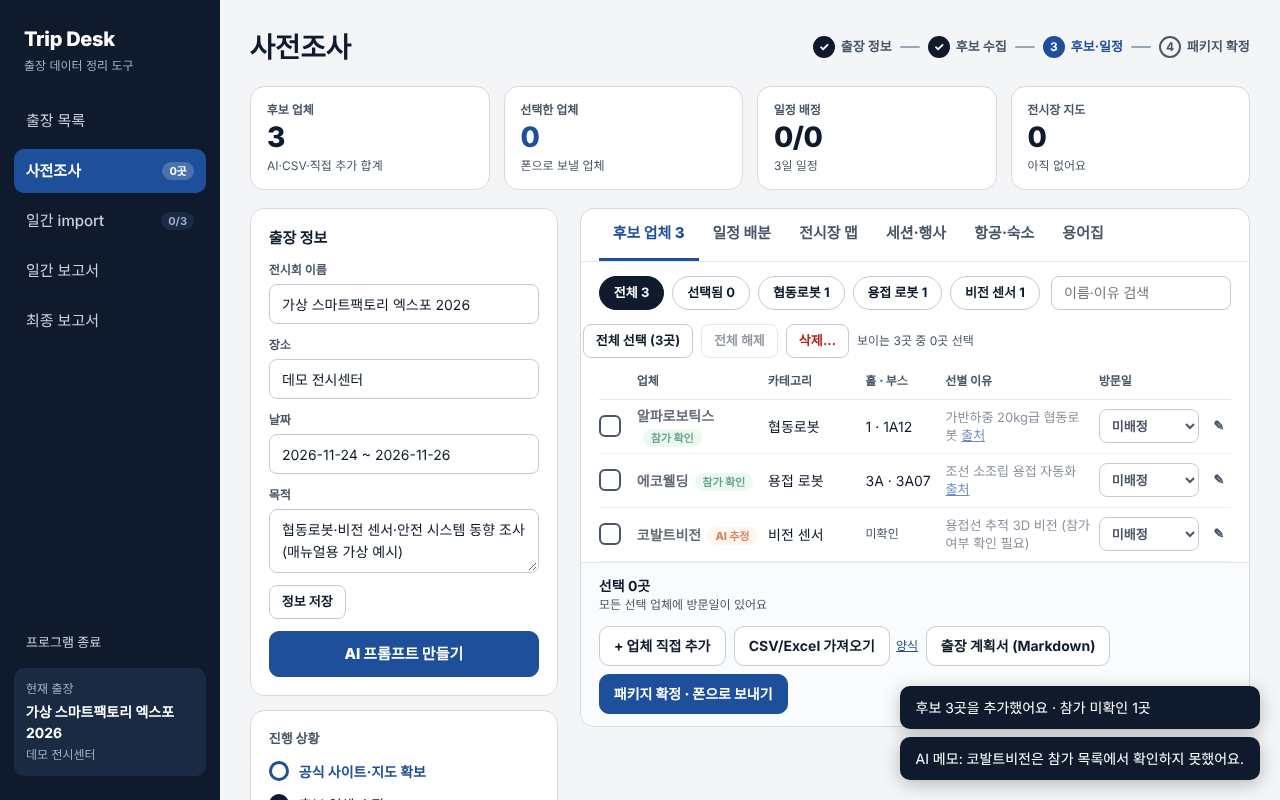
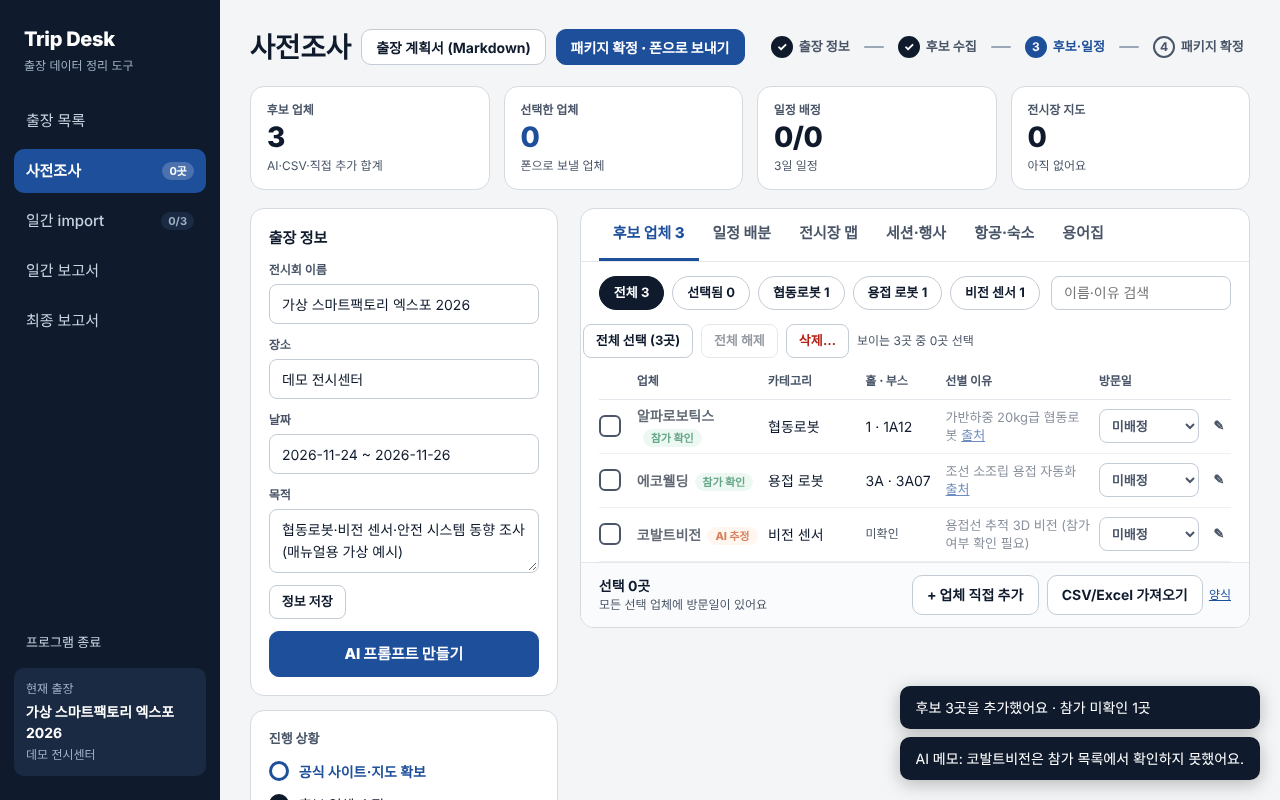
Desk 사전조사: 진행 상황·단계 표시를 눌러 해당 탭으로 이동, 출장 계획서·패키지 확정 버튼을 제목 옆으로 이동
Claude-Session: https://claude.ai/code/session_01QquWuwNK276MS5WpECriYo

Changed region(s): [[0.2812, 0.0312, 0.9688, 0.0938], [0.4688, 0.7812, 0.875, 0.9062], [0.7188, 0.7188, 0.9688, 0.75]]

diff --git a/desk/tripdesk/web/prep.js b/desk/tripdesk/web/prep.js
@@ -39,19 +39,23 @@ function draw() {
   const { trip } = P.v;
   const s = stats();
   const steps = [
-    ["출장 정보", true],
-    ["후보 수집", s.all > 0],
-    ["후보·일정", s.picked > 0 && s.dated === s.stops],
-    ["패키지 확정", getFlag(P.tid)],
+    ["출장 정보", true, () => { P.root.querySelector(".leftcol input")?.focus(); }],
+    ["후보 수집", s.all > 0, () => goTab("cands")],
+    ["후보·일정", s.picked > 0 && s.dated === s.stops, () => goTab(s.picked ? "plan" : "cands")],
+    ["패키지 확정", getFlag(P.tid), confirmPackage],
   ];
   const nowIdx = steps.findIndex((x) => !x[1]);
   const stepsEl = h("div", { class: "steps" });
-  steps.forEach(([label, done], i) => {
+  steps.forEach(([label, done, go], i) => {
     if (i) stepsEl.append(h("div", { class: "bar" }));
-    stepsEl.append(h("div", { class: "s " + (done ? "done" : i === nowIdx ? "now" : "") }, h("div", { class: "dot" }, done ? "✓" : String(i + 1)), label));
+    stepsEl.append(h("button", { class: "s stepbtn " + (done ? "done" : i === nowIdx ? "now" : ""), title: label + "(으)로 이동", onclick: go }, h("div", { class: "dot" }, done ? "✓" : String(i + 1)), label));
   });
   P.root.replaceChildren(
-    h("div", { class: "top" }, h("h1", {}, "사전조사"), stepsEl),
+    h("div", { class: "top" },
+      h("div", { class: "toplead" }, h("h1", {}, "사전조사"),
+        h("button", { class: "btn", onclick: openPlanReport }, "출장 계획서 (Markdown)"),
+        h("button", { class: "btn primary", onclick: confirmPackage }, "패키지 확정 · 폰으로 보내기")),
+      stepsEl),
     h("div", { class: "kpis" },
       kpi("후보 업체", s.all, "AI·CSV·직접 추가 합계"),
       kpi("선택한 업체", s.picked, s.unverified ? `참가 미확인 ${s.unverified}곳` : "폰으로 보낼 업체", true),
@@ -61,6 +65,7 @@ function draw() {
   );
 }
 
+const goTab = (k) => { P.tab = k; redraw(); P.root.querySelector(".panel")?.scrollIntoView({ behavior: "smooth", block: "start" }); };
 const kpi = (label, val, note, accent) => h("div", { class: "kpi" + (accent ? " accent" : "") }, h("span", {}, label), h("b", {}, val), h("em", {}, note));
 
 // ---------------- 왼쪽: 출장 정보 / 진행 ----------------
@@ -79,10 +84,10 @@ function leftCol(s) {
     P.app.refreshSide();
   }) }, "정보 저장");
   const checks = [
-    ["공식 사이트·지도 확보", s.maps > 0],
-    ["후보 업체 수집", s.all > 0],
-    ["후보 선별·일정 배분", s.picked > 0 && s.dated === s.stops],
-    ["패키지 확정 · 폰으로 보내기", getFlag(P.tid)],
+    ["공식 사이트·지도 확보", s.maps > 0, () => goTab("map")],
+    ["후보 업체 수집", s.all > 0, () => goTab("cands")],
+    ["후보 선별·일정 배분", s.picked > 0 && s.dated === s.stops, () => goTab(s.picked ? "plan" : "cands")],
+    ["패키지 확정 · 폰으로 보내기", getFlag(P.tid), confirmPackage],
   ];
   const now = checks.findIndex((c) => !c[1]);
   return h("div", { class: "leftcol" },
@@ -91,7 +96,7 @@ function leftCol(s) {
       h("div", { class: "row" }, save),
       h("button", { class: "btn primary", style: "height:46px;font-size:15px", onclick: openKeywordPrompt }, "AI 프롬프트 만들기")),
     h("div", { class: "card" }, h("h4", {}, "진행 상황"),
-      ...checks.map(([t, done], i) => h("div", { class: "check " + (done ? "done" : i === now ? "now" : "") }, h("i", {}, done ? "✓" : ""), t)),
+      ...checks.map(([t, done, go], i) => h("button", { class: "check chk-btn " + (done ? "done" : i === now ? "now" : ""), title: t + "(으)로 이동", onclick: go }, h("i", {}, done ? "✓" : ""), t)),
       h("div", { style: "height:1px;background:var(--line2)" }),
       h("div", { class: "row" },
         h("button", { class: "btn sm", onclick: () => { P.tab = "map"; redraw(); } }, "맵 PDF 직접 올리기"),
@@ -183,9 +188,7 @@ function candsTab(s) {
       h("div", {}, h("b", {}, `선택 ${s.picked}곳` + (s.stops > s.picked ? ` (방문 지점 ${s.stops}곳)` : "") + perDay.map((n, i) => (n ? ` · Day ${i + 1} ${n}곳` : "")).join("")),
         h("div", { class: "sub" }, s.stops - s.dated ? `일정 미배정 ${s.stops - s.dated}곳 · '일정 배분' 탭에서 한 번에 나눌 수 있어요` : "모든 선택 업체에 방문일이 있어요")),
       h("div", { class: "row" },
-        h("button", { class: "btn", onclick: () => openCompanyEditor(null) }, "+ 업체 직접 추가"), csvButton(),
-        h("button", { class: "btn", onclick: openPlanReport }, "출장 계획서 (Markdown)"),
-        h("button", { class: "btn primary", onclick: confirmPackage }, "패키지 확정 · 폰으로 보내기"))));
+        h("button", { class: "btn", onclick: () => openCompanyEditor(null) }, "+ 업체 직접 추가"), csvButton())));
 }
 
 function csvButton() {

diff --git a/desk/tripdesk/web/app.css b/desk/tripdesk/web/app.css
@@ -156,3 +156,9 @@ input.bad{border-color:#c0392b!important;background:#fdf0ee}
 .tag.dup{background:#FFF1D6;color:#8A5300}
 .card2.dupc{border-color:#E8A93A;background:#FFFBF2}
 .dupnote{font-size:12px;color:#8A5300;margin:2px 0}
+
+.toplead{display:flex;align-items:center;gap:10px;flex-wrap:wrap}
+.toplead .btn{height:36px}
+button.stepbtn{background:none;border:0;font:inherit;color:inherit;cursor:pointer;padding:4px 6px;border-radius:8px}
+button.stepbtn:hover,button.chk-btn:hover{background:#EEF2F8}
+button.chk-btn{background:none;border:0;font:inherit;text-align:left;cursor:pointer;padding:4px 6px;margin:-4px -6px;border-radius:8px;width:calc(100% + 12px)}

diff --git a/docs/manual/sample_plan_report.md b/docs/manual/sample_plan_report.md
@@ -1,6 +1,6 @@
 # 가상 스마트팩토리 엑스포 2026 출장 계획서
 
-작성일 2026-11-05
+작성일 2026-11-09
 
 ## 1. 출장 정보
 
